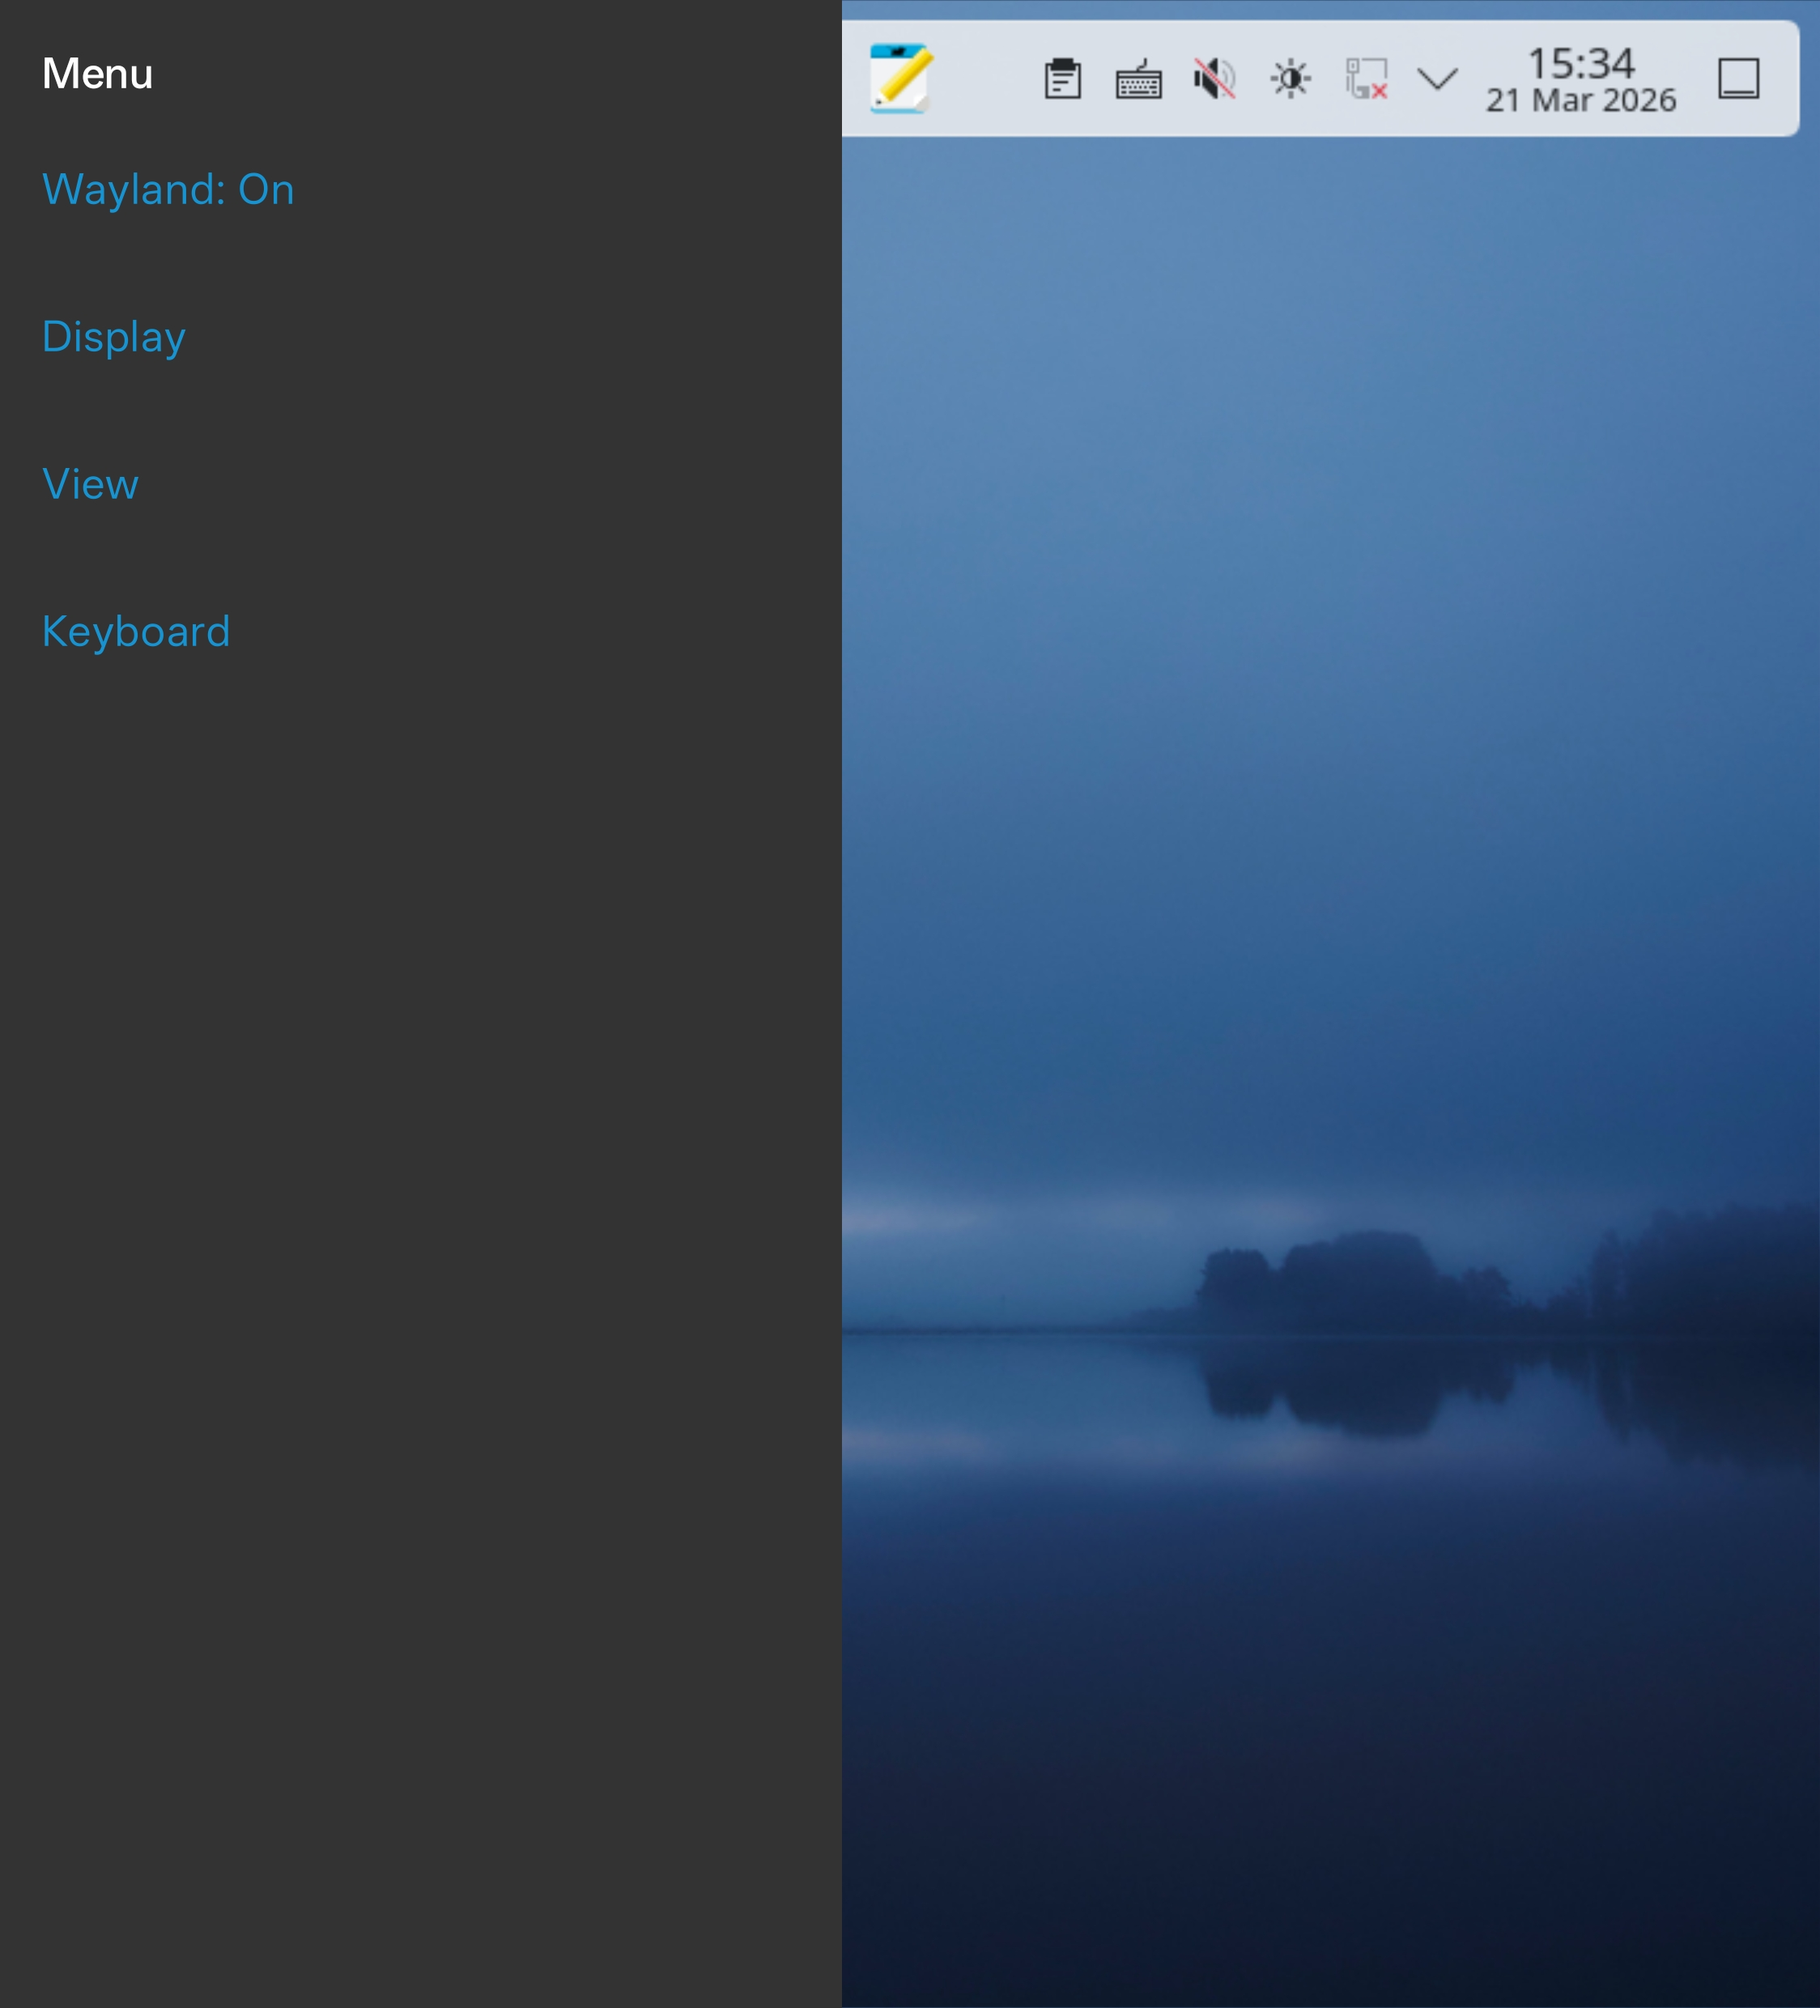
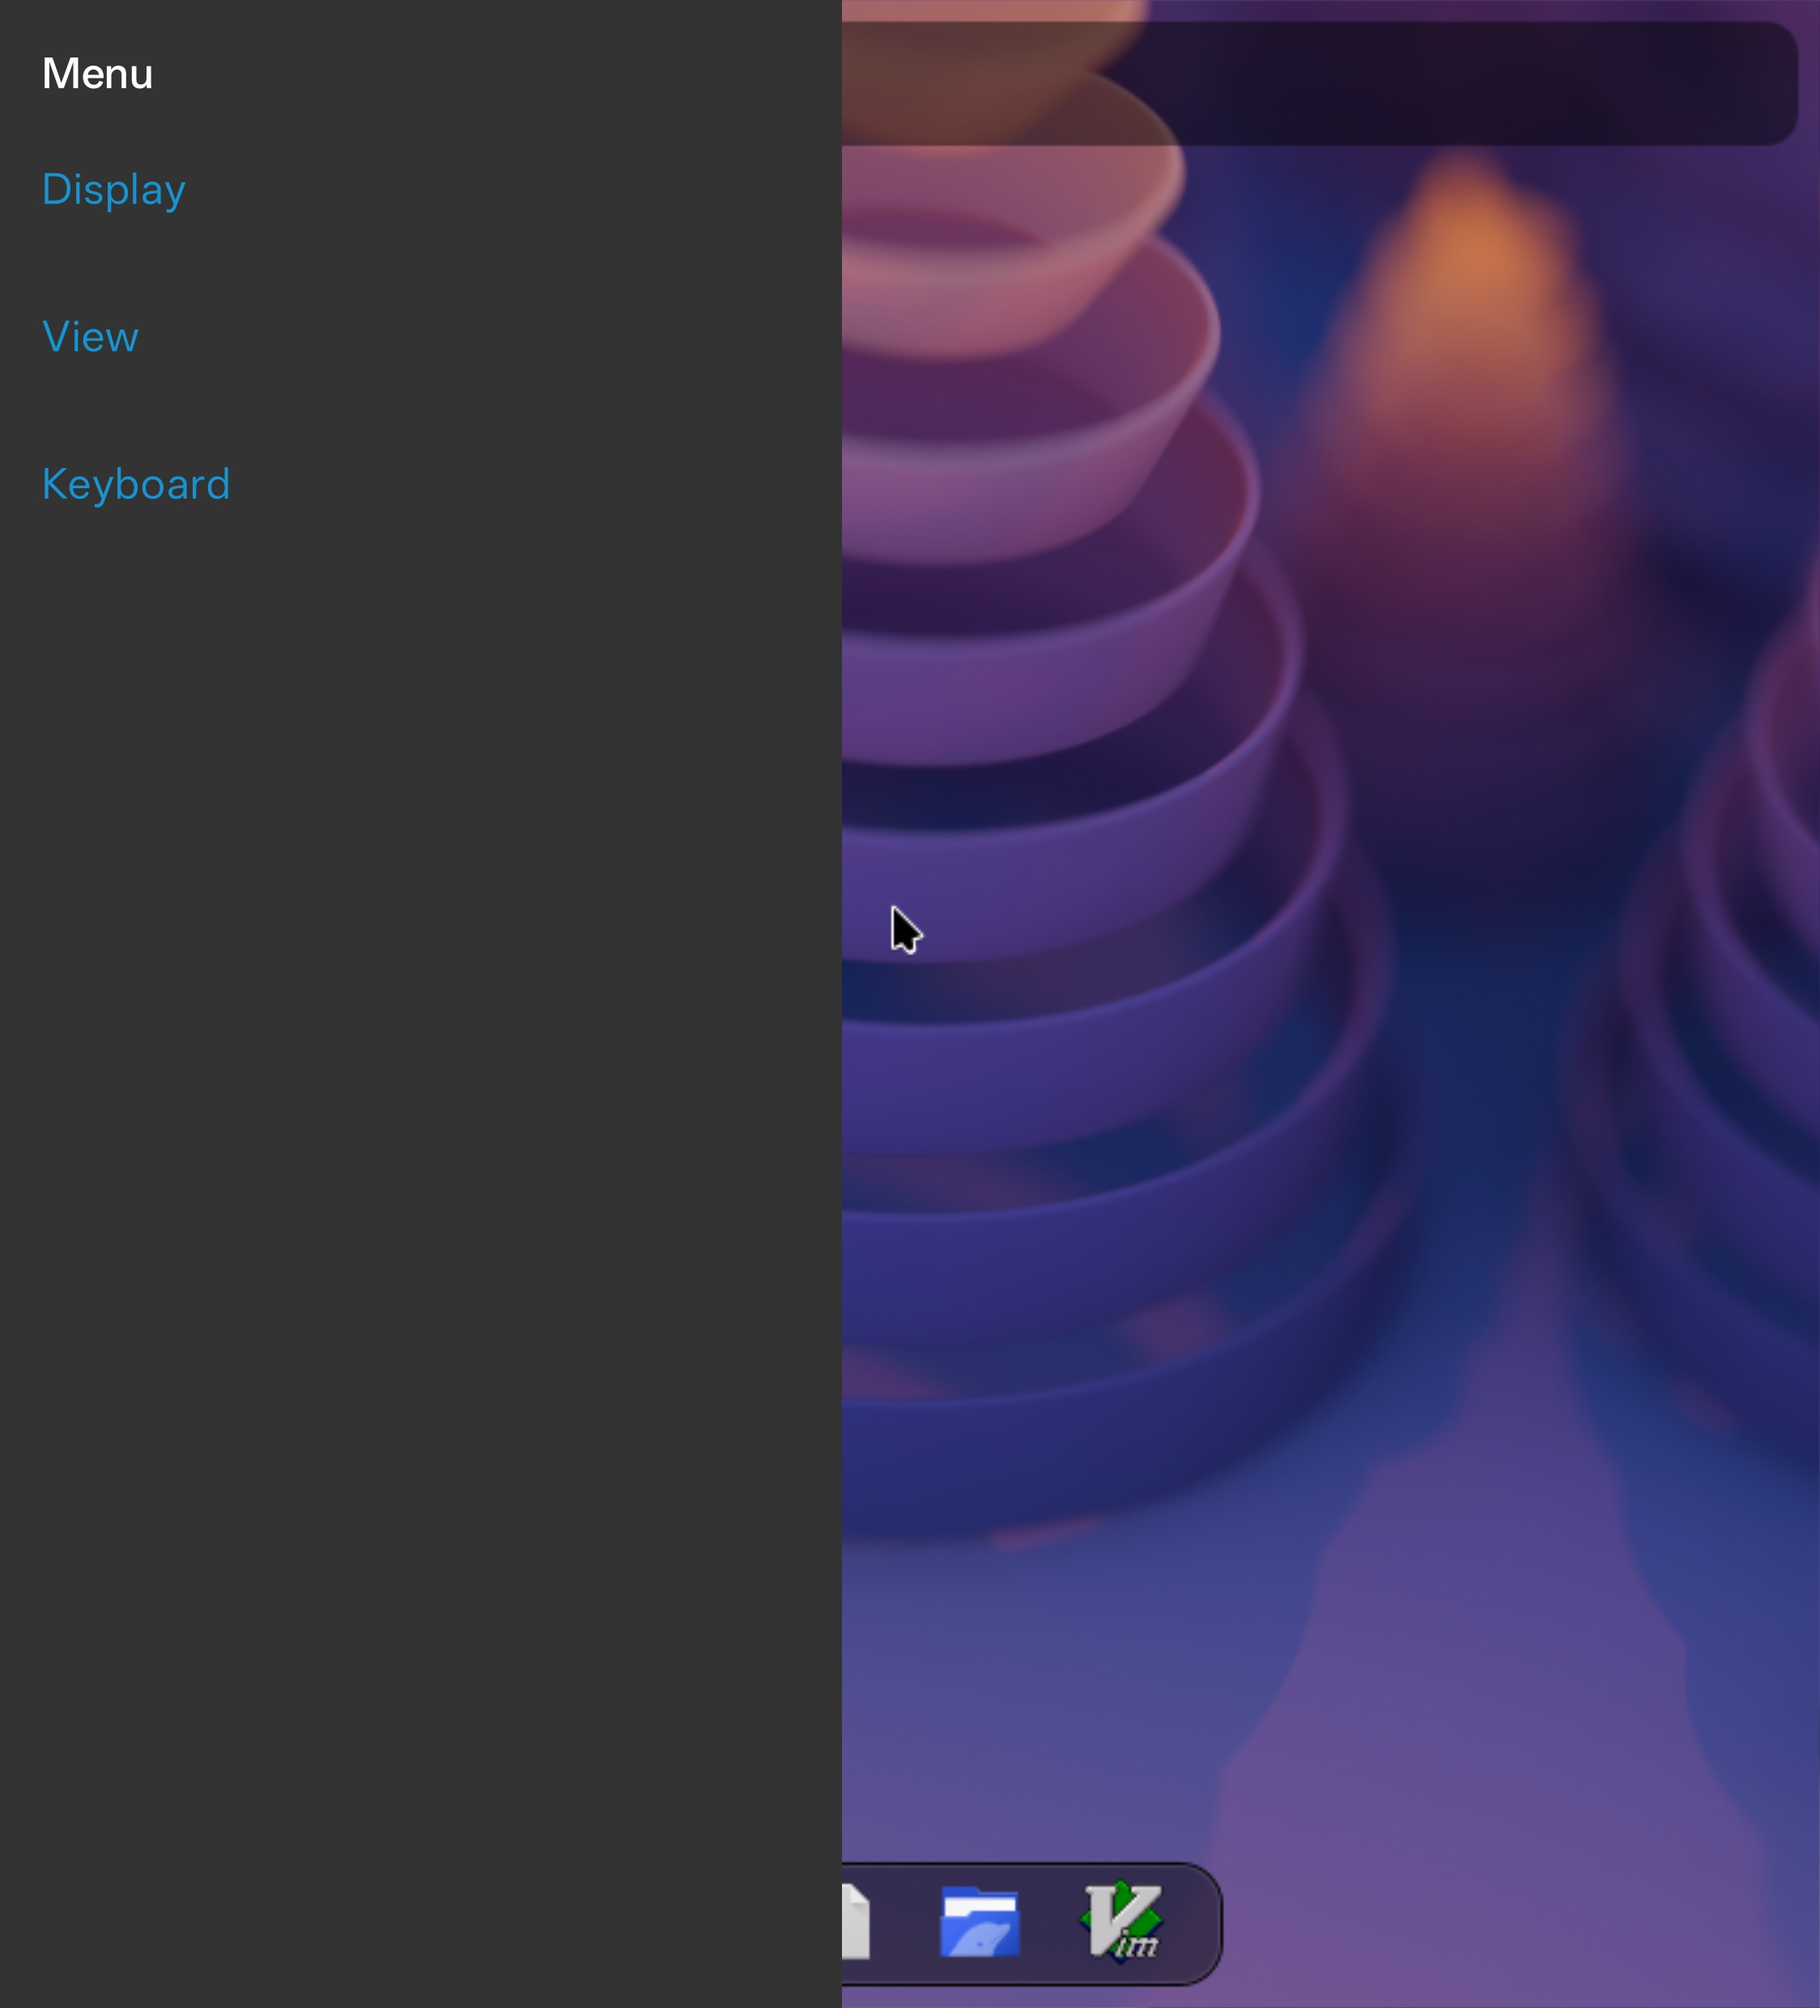
docs(readme): update README flow and screenshots

diff --git a/README.md b/README.md
@@ -20,24 +20,26 @@
 
 - If there is no usable rootfs under `data_dir/arch` at first launch, the app **downloads and extracts** the Arch Linux aarch64 rootfs from [proot-distro](https://github.com/termux/proot-distro/releases) (~156 MB). Network required.
 
-## 2. Before the desktop: install Plasma inside proot (and basics)
+## 2. Before the desktop: enter Terminal (shortcut) and install Plasma inside proot
 
-In the **Arch shell inside proot**, **update first, then install the desktop** (example; adjust packages as you like):
+Long-press the app icon to show **shortcuts**, then tap **Terminal** to enter the **Arch shell inside proot**.
+
+![App shortcut](docs/images/shortcut.jpg)
+
+In the proot Arch shell, **update first, then install the desktop** (example; adjust packages as you like):
 
 ```bash
 pacman -Syu
 pacman -S plasma-desktop dolphin konsole
 ```
 
-## 3. Side menu and Display (open menu, enable Wayland, run Display)
+## 3. Side menu and Display (open menu, set Display script, start the desktop)
 
-- **Side menu** — **Two-finger** swipe **from the left edge of the screen toward the right** to open it. Below: side menu in the terminal/Wayland view vs after entering the desktop.
+- **Side menu** — **Two-finger** swipe **from the left edge of the screen toward the right** to open it. Below: side menu in the terminal view vs after entering the desktop.
 
 | Side menu (terminal / Wayland view) | Side menu (desktop session) |
 |-------------------------------------|-----------------------------|
-| ![Side menu in console view](docs/images/sidebarInConsole.jpg) | ![Side menu on desktop](docs/images/sidebarInDesktop.jpg) |
-
-- **First**, turn **Wayland** on in the side menu.
+| ![Side menu in terminal view](docs/images/sidebarInTerminal.jpg) | ![Side menu on desktop](docs/images/sidebarInDesktop.jpg) |
 
 - **Display** — **Long-press** to edit the **Display startup script**; **short-press** to run it and start Plasma. **If a Wayland client is already connected, the app does not run the script again.**
 
@@ -48,6 +50,12 @@ dbus-launch --exit-with-session startplasma-wayland > /dev/null 2>&1 &
 ```
 
 ![Display in side menu](docs/images/display.jpg)
+
+## 4. Daily use: tap app to auto-start the desktop
+
+After you have set a Display startup script, you can **tap the app icon normally** to enter the desktop view; the app will **inject and run the Display script automatically** (idempotent when a desktop client is already connected).
+
+The **Terminal** shortcut is mainly for initialization (installing a desktop + terminal app) or as a fallback when you don’t have a terminal available inside the desktop yet.
 
 ## 4. After Plasma starts: View Settings and terminal ↔ desktop switching
 

diff --git a/README.zh.md b/README.zh.md
@@ -20,24 +20,26 @@
 
 - 若首次启动时 `data_dir/arch` 下尚无可用的 rootfs，应用会从 [proot-distro](https://github.com/termux/proot-distro/releases) **自动下载并解压** Arch Linux aarch64 rootfs（约 156 MB），需联网。
 
-## 2. 启动桌面前：在 proot 内安装 Plasma（及常用组件）
+## 2. 启动桌面前：通过 Terminal（shortcut）进入终端并安装 Plasma（及常用组件）
 
-在应用内进入 **proot 里的 Arch** 终端后，**先更新再安装桌面**（示例；可按需增删包名）：
+长按应用图标显示 **shortcut**，点击 **Terminal** 进入 **proot 里的 Arch** 终端。
+
+![App shortcut](docs/images/shortcut.jpg)
+
+在终端内，**先更新再安装桌面**（示例；可按需增删包名）：
 
 ```bash
 pacman -Syu
 pacman -S plasma-desktop dolphin konsole
 ```
 
-## 3. 侧栏与 Display（呼出侧栏、开启 Wayland、运行 Display）
+## 3. 侧栏与 Display（呼出侧栏、设置启动脚本、启动桌面）
 
 - **侧栏**：用**双指**从**屏幕左侧边缘向右滑动**即可打开侧栏。下图分别为**终端 / Wayland 视图**下与**已进入桌面**后划出的侧栏。
 
-| 终端 / Wayland 视图下的侧栏 | 进入桌面后的侧栏 |
+| 终端下的侧栏 | 进入桌面后的侧栏 |
 |----------------------------|-----------------|
-| ![终端界面侧栏](docs/images/sidebarInConsole.jpg) | ![桌面侧栏](docs/images/sidebarInDesktop.jpg) |
-
-- 先在侧栏开启 **Wayland**。
+| ![终端界面侧栏](docs/images/sidebarInTerminal.jpg) | ![桌面侧栏](docs/images/sidebarInDesktop.jpg) |
 
 - **Display**：**长按**可编辑 **Display 启动脚本**；**短按**执行脚本以启动 Plasma。**若已有 Wayland 客户端连接，应用不会重复执行脚本。**
 
@@ -48,6 +50,12 @@ dbus-launch --exit-with-session startplasma-wayland > /dev/null 2>&1 &
 ```
 
 ![侧栏中的 Display](docs/images/display.jpg)
+
+## 4. 日常使用：点应用自动启动桌面
+
+当你设置好 Display 启动脚本后，后续**直接点击应用图标**即可进入桌面视图，应用会**自动注入并执行**该脚本（当已有桌面客户端连接时具备幂等保护，不会重复执行）。
+
+**Terminal shortcut** 主要用于初始化（例如安装桌面与终端应用），或当桌面环境里暂时没有可用终端时作为备用入口。
 
 ## 4. 进入桌面后：View Settings 与终端 / 桌面切换
 
